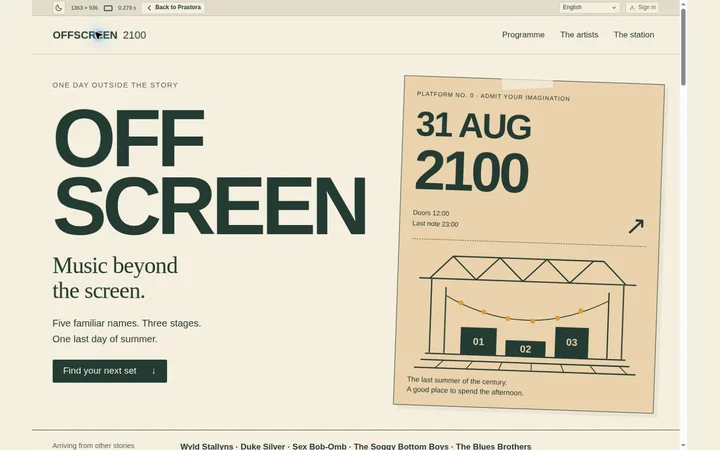
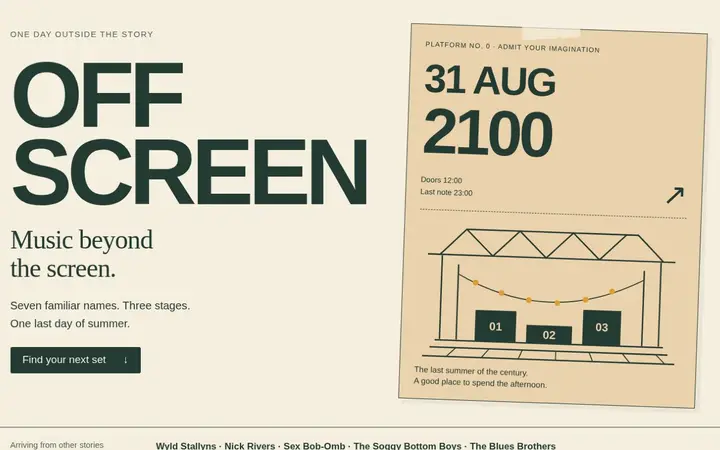
Finish OFFSCREEN guest schedule and refresh the festival preview
Give Mouse Rat a readable 45-minute slot and preserve stage changeovers.
Remove temporary browser-check pages after testing the five viewport sizes in both schemes.

Assisted-by: ChatGPT

diff --git a/templates/festival.html b/templates/festival.html
@@ -71,15 +71,15 @@
 </details><details class="of-set of-waiting" name="festival-set" id="set-8" data-stage="waiting" style="--from:24;--duration:4;--stage:2">
  <summary><span class="of-set-time"><time datetime="2100-08-31T18:00">18:00</time>–<time datetime="2100-08-31T19:00">19:00</time></span><strong>Duke Silver</strong><span class="of-set-stage">The Waiting Room</span><span class="of-set-toggle">Set notes <span aria-hidden="true">↗</span></span></summary>
  <div class="of-set-notes stack-small"><p class="eyebrow">The Waiting Room · 60 minutes</p><h3>Blue hour</h3><p>The room grows quieter as the saxophone warms up. A full hour, with no departures announced.</p><p class="small">Song to know: <cite>My Mustache Also Falls In Love</cite>.</p><a href="#duke">Meet Duke Silver →</a><p class="small muted">Select the set again to close these notes.</p></div>
-</details><details class="of-set of-yard of-late" name="festival-set" id="set-9" data-stage="yard" style="--from:28;--duration:6;--stage:0">
- <summary><span class="of-set-time"><time datetime="2100-08-31T19:00">19:00</time>–<time datetime="2100-08-31T20:30">20:30</time></span><strong>The Blues Brothers</strong><span class="of-set-stage">The Yard</span><span class="of-set-toggle">Set notes <span aria-hidden="true">↗</span></span></summary>
- <div class="of-set-notes stack-small"><p class="eyebrow">The Yard · 90 minutes</p><h3>The evening belongs to the band</h3><p>Ninety minutes of soul and rhythm & blues. Duke Silver joins for a guest appearance after his own set.</p><p class="small">Song to know: <cite>Everybody Needs Somebody to Love</cite>.</p><a href="#blues">Meet The Blues Brothers →</a><p class="small muted">Select the set again to close these notes.</p></div>
+</details><details class="of-set of-yard of-late" name="festival-set" id="set-9" data-stage="yard" style="--from:28;--duration:5;--stage:0">
+ <summary><span class="of-set-time"><time datetime="2100-08-31T19:00">19:00</time>–<time datetime="2100-08-31T20:15">20:15</time></span><strong>The Blues Brothers</strong><span class="of-set-stage">The Yard</span><span class="of-set-toggle">Set notes <span aria-hidden="true">↗</span></span></summary>
+ <div class="of-set-notes stack-small"><p class="eyebrow">The Yard · 75 minutes</p><h3>The evening belongs to the band</h3><p>Seventy-five minutes of soul and rhythm & blues. Duke Silver joins for a guest appearance after his own set.</p><p class="small">Song to know: <cite>Everybody Needs Somebody to Love</cite>.</p><a href="#blues">Meet The Blues Brothers →</a><p class="small muted">Select the set again to close these notes.</p></div>
 </details><details class="of-set of-platform of-late" name="festival-set" id="set-10" data-stage="platform" style="--from:32;--duration:3;--stage:1">
  <summary><span class="of-set-time"><time datetime="2100-08-31T20:00">20:00</time>–<time datetime="2100-08-31T20:45">20:45</time></span><strong>The Soggy Bottom Boys</strong><span class="of-set-stage">The Platform</span><span class="of-set-toggle">Set notes <span aria-hidden="true">↗</span></span></summary>
  <div class="of-set-notes stack-small"><p class="eyebrow">The Platform · 45 minutes</p><h3>One more for the journey</h3><p>The last acoustic set of the day, beneath the station lights.</p><p class="small">Song to know: <cite>I Am a Man of Constant Sorrow</cite>.</p><a href="#soggy">Meet The Soggy Bottom Boys →</a><p class="small muted">Select the set again to close these notes.</p></div>
-</details><details class="of-set of-yard of-short of-late" name="festival-set" id="set-mouse-rat" data-stage="yard" style="--from:35;--duration:2;--stage:0">
- <summary><span class="of-set-time"><time datetime="2100-08-31T20:45">20:45</time>–<time datetime="2100-08-31T21:15">21:15</time></span><strong>Mouse Rat</strong><span class="of-set-stage">The Yard</span><span class="of-set-toggle">Set notes <span aria-hidden="true">↗</span></span></summary>
- <div class="of-set-notes stack-small"><p class="eyebrow">The Yard · 30 minutes</p><h3>A chorus from Pawnee</h3><p>A short, generous set before the finale. Duke Silver joins on Catch Your Dream; the whole Yard is welcome to join the tribute to Li’l Sebastian.</p><p class="small">Song to know: <cite>5,000 Candles in the Wind</cite>.</p><a href="#mouse-rat">Meet Mouse Rat →</a><p class="small muted">Select the set again to close these notes.</p></div>
+</details><details class="of-set of-yard of-late" name="festival-set" id="set-mouse-rat" data-stage="yard" style="--from:34;--duration:3;--stage:0">
+ <summary><span class="of-set-time"><time datetime="2100-08-31T20:30">20:30</time>–<time datetime="2100-08-31T21:15">21:15</time></span><strong>Mouse Rat</strong><span class="of-set-stage">The Yard</span><span class="of-set-toggle">Set notes <span aria-hidden="true">↗</span></span></summary>
+ <div class="of-set-notes stack-small"><p class="eyebrow">The Yard · 45 minutes</p><h3>A chorus from Pawnee</h3><p>A short, generous set before the finale. Duke Silver joins on Catch Your Dream; the whole Yard is welcome to join the tribute to Li’l Sebastian.</p><p class="small">Song to know: <cite>5,000 Candles in the Wind</cite>.</p><a href="#mouse-rat">Meet Mouse Rat →</a><p class="small muted">Select the set again to close these notes.</p></div>
 </details><details class="of-set of-yard of-late" name="festival-set" id="set-11" data-stage="yard" style="--from:38;--duration:6;--stage:0">
  <summary><span class="of-set-time"><time datetime="2100-08-31T21:30">21:30</time>–<time datetime="2100-08-31T23:00">23:00</time></span><strong>Wyld Stallyns</strong><span class="of-set-stage">The Yard</span><span class="of-set-toggle">Set notes <span aria-hidden="true">↗</span></span></summary>
  <div class="of-set-notes stack-small"><p class="eyebrow">The Yard · 90 minutes</p><h3>The closing set</h3><p>The final ninety minutes of summer. Everyone is invited; the timetable stops here.</p><p class="small">Song to know: <cite>That Which Binds Us Through Time: The Chemical, Physical And Biological Nature Of Love; An Exploration Of The Meaning Of Meaning, Pt. 1</cite>.</p><a href="#wyld">Meet Wyld Stallyns →</a><p class="small muted">Select the set again to close these notes.</p></div>
